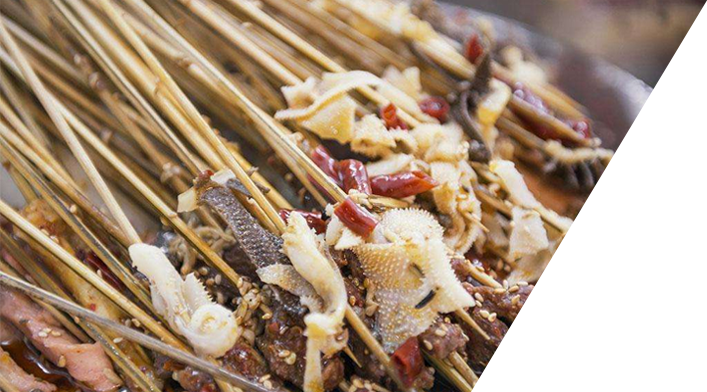
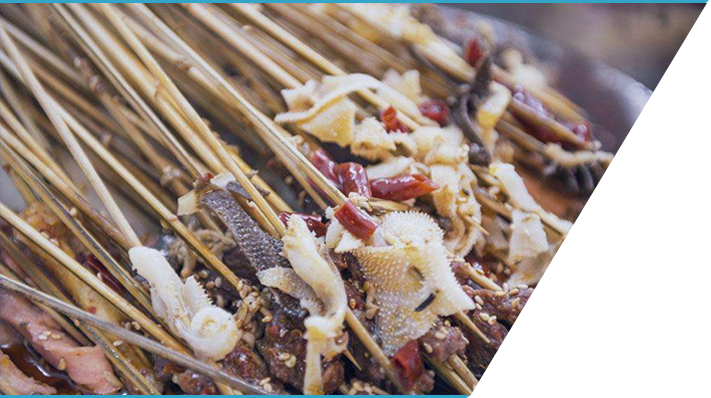
border

diff --git a/css/style.css b/css/style.css
@@ -831,16 +831,6 @@ footer>p:nth-child(2) {
   display: flex;
 }
 
-.brandborder1 {
-  border-top: 3px solid #33a5c9;
-  border-bottom: 3px solid #33a5c9;
-}
-
-.brandborder2 {
-  border-top: 3px solid #ff0000;
-  border-bottom: 3px solid #ff0000;
-}
-
 .brandborder2 {
   margin-left: -216px;
 }

diff --git a/show.html b/show.html
@@ -4,7 +4,7 @@
 <head>
   <meta charset="UTF-8">
   <meta http-equiv="X-UA-Compatible" content="ie=edge">
-  <title>Document</title>
+  <title>熟悉的串串</title>
   <link rel="stylesheet" href="./css/style.css">
 </head>
 
